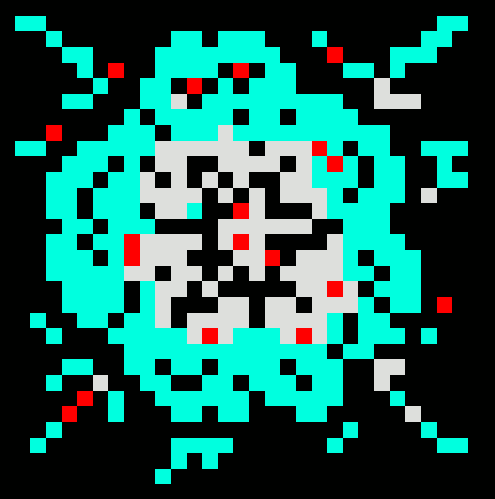
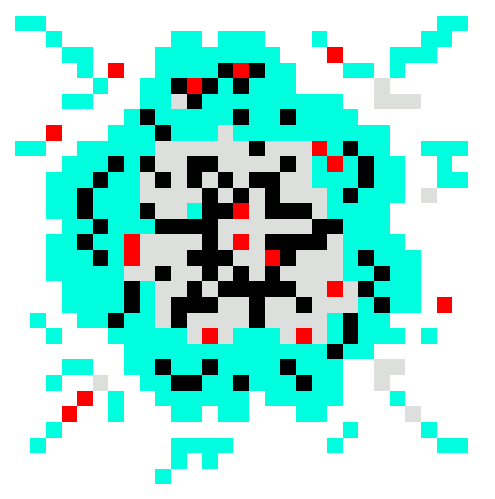
Explosion besteht jetzt aus vier Bildern

diff --git a/gaem.html b/gaem.html
@@ -25,7 +25,7 @@
             y: 350,
             width: 70,
             height: 70,
-            src: "img/img/rocket2.png"
+            src: "img/rocket2.png"
         }
 
         let invaders = [];
@@ -78,7 +78,10 @@
                 && rocket.x < invader.x
                 && rocket.y < invader.y
                 ) {
-                    rocket.img.src = "img/img/boom1.jpg";
+                    rocket.img.src = "img/boom1.jpg";
+                    rocket.img.src = "img/boom2.PNG";
+                    rocket.img.src = "img/boom3.PNG";
+                    rocket.img.src = "img/boom4.PNG";
                     console.log("Collision!!!");
                     invaders = invaders.filter(u => u != invader);
                 }
@@ -91,7 +94,7 @@
                 y: -50,
                 width: 60,
                 height: 60,
-                src: "img/img/invader.png",
+                src: "img/invader.png",
                 img: new Image()
             }
             invader.img.src = invader.src;
@@ -113,7 +116,7 @@
         }
 
         function loadImages(){
-            backgroundImage.src = "img/img/space.png"
+            backgroundImage.src = "img/space.png"
             rocket.img = new Image();
             rocket.img.src = rocket.src;
         }
